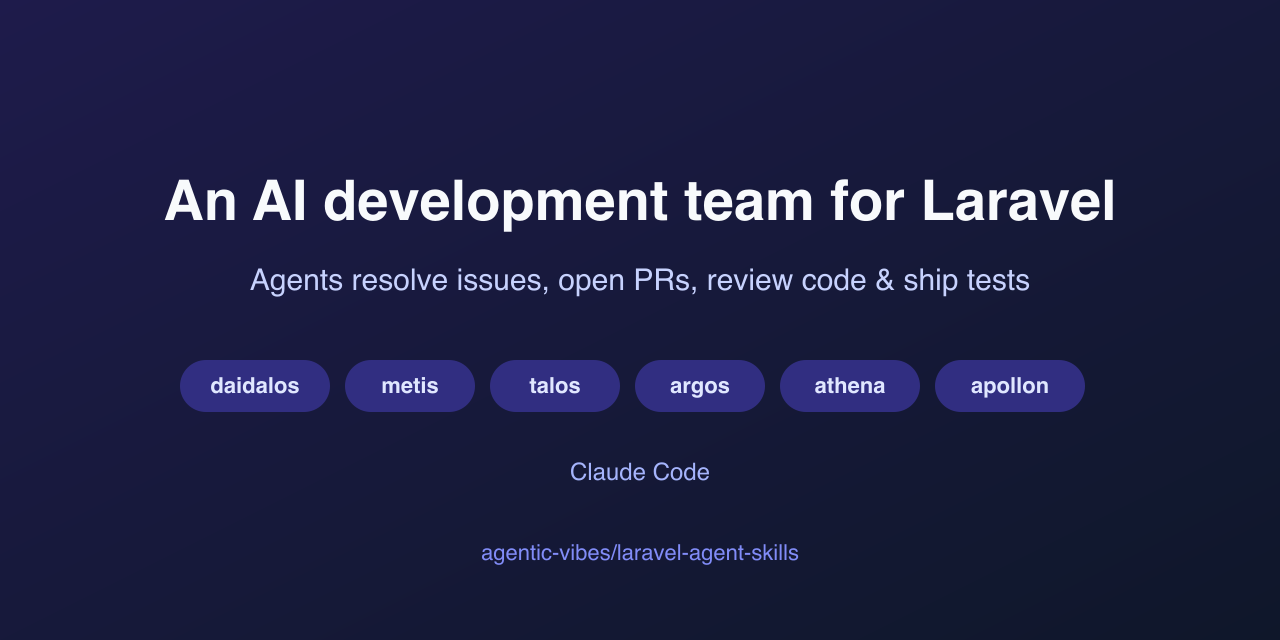
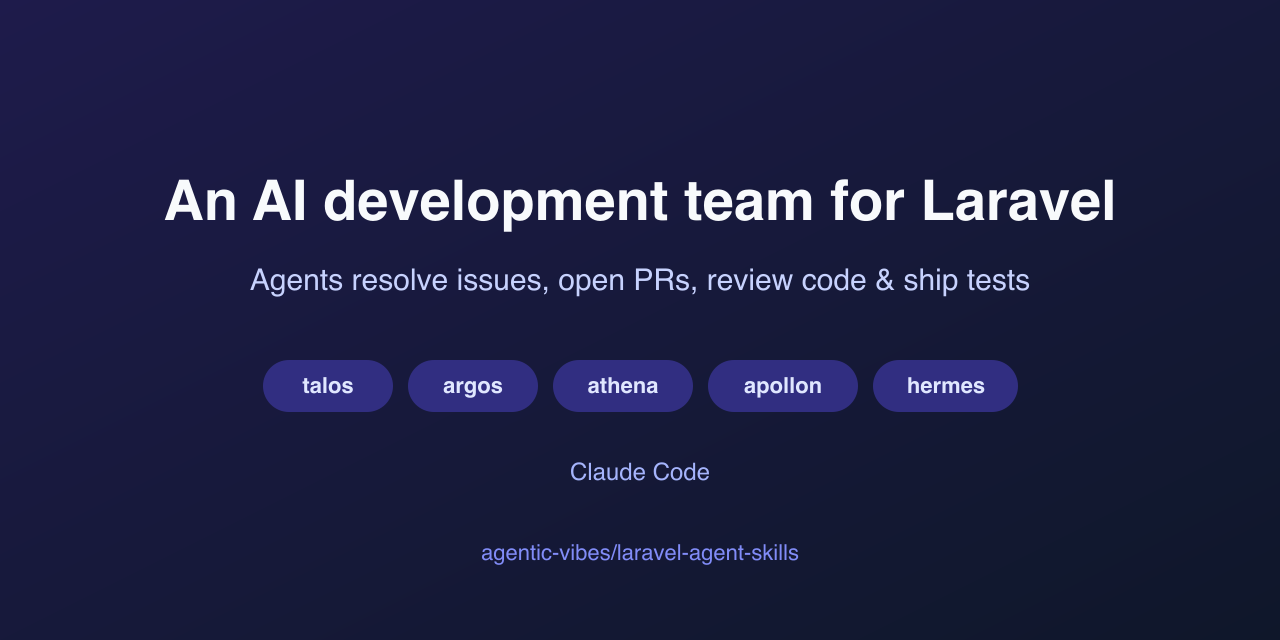
docs: rewrite README and agent docs for the five-agent roster
- README: five-agent roster (talos, argos, athena, apollon, hermes); drop the
  metis / daidalos role cards and how-to sections; add a 'How to run the full
  pipeline' section pointing at scripts/resolve-and-review.sh.
- docs/agents.md: rewrite around harness-driven orchestration; drop the
  daidalos/metis roster entries, the shared-brief and write-lock sections, and
  rework 'Subagents of an agent' + the end-to-end run to the harness pipeline.
- Re-render assets/social-preview.svg/.png to show the current five agents.

Changed region(s): [[0.125, 0.5625, 0.875, 0.6562]]

diff --git a/docs/agents.md b/docs/agents.md
@@ -8,13 +8,15 @@ Skills = reusable workflows
 Agents = specialised orchestration roles over multiple skills
 ```
 
+Each agent is a **standalone specialist**: you (or the orchestrating harness) dispatch the one that matches the step at hand. There is no dedicated orchestrator agent — the harness itself sequences the specialists and the skills, so the end-to-end run is driven by the harness (and the `scripts/resolve-and-review.sh` pipeline template), not by an agent that dispatches other agents. See *End-to-end run* below.
+
 ## Agent roster
 
 Every agent has its own avatar under [`assets/agents/`](../assets/agents). When no custom artwork has been supplied yet, the slot falls back to the universal placeholder ([`placeholder.svg`](../assets/agents/placeholder.svg)) — swap `assets/agents/<name>.svg` to give an agent its own face.
 
 ### <img src="../assets/agents/argos.png" alt="argos avatar" width="48" align="left"> `argos` — code-review gatekeeper
 
-The all-seeing code-review gatekeeper, named after **Argos Panoptes**, the hundred-eyed watcher nothing escaped. Give it a PR — from the current context or a tracker link (GitHub, JIRA, Bugsnag) — and it loads the source, runs the matching `code-review-*` wrapper skill, posts the findings to the PR, and hands back a `CR done` summary with links and Critical / Moderate / Minor counts. Argos focuses on **code quality, architecture, and optimisation**; security is owned by `athena`. When `daidalos` dispatches both in parallel, argos consolidates `athena`'s security findings into the final CR summary before publishing.
+The all-seeing code-review gatekeeper, named after **Argos Panoptes**, the hundred-eyed watcher nothing escaped. Give it a PR — from the current context or a tracker link (GitHub, JIRA, Bugsnag) — and it loads the source, runs the matching `code-review-*` wrapper skill, posts the findings to the PR, and hands back a `CR done` summary with links and Critical / Moderate / Minor counts. Argos focuses on **code quality, architecture, and optimisation**; security is owned by `athena`, which runs as a separate security pass.
 
 - **Trigger:** a pull request needs reviewing (code quality, architecture, optimisation).
 - **Orchestrates:** `code-review-github`, `code-review-jira`, `code-review-bugsnag`.
@@ -22,56 +24,34 @@ The all-seeing code-review gatekeeper, named after **Argos Panoptes**, the hundr
 
 ### <img src="../assets/agents/athena.png" alt="athena avatar" width="48" align="left"> `athena` — security analyst & CR sentinel
 
-The strategic security sentinel, named after **Athena**, goddess of wisdom and strategic defence, and daughter of Metis. It owns the security domain in **two modes**. (1) **Security analysis (pre-implementation)** — dispatched on demand when the task carries a cyber-security question: it scopes the security risk through all security skills, frames the smallest safe remediation via `analyze-problem`, publishes a plan artifact, and hands back a `Security analysis done` summary that `talos` implements. (2) **Security review (post-implementation)** — given a PR from the current context or a tracker link, it orchestrates all security skills, applies all security rules, labels each finding (Critical / Moderate / Minor), posts a consolidated security review to the PR, and hands back a `Security CR done` summary; dispatched by `daidalos` **after `talos`, in parallel with `argos`** — two independent CR passes on the same PR, results consolidated by `argos`. The caller passes its findings to the agents that need them.
+The strategic security sentinel, named after **Athena**, goddess of wisdom and strategic defence. It owns the security domain in **two modes**. (1) **Security analysis (pre-implementation)** — run on demand when the task carries a cyber-security question: it scopes the security risk through all security skills, frames the smallest safe remediation via `analyze-problem`, publishes a plan artifact, and hands back a `Security analysis done` summary that `talos` implements. (2) **Security review (post-implementation)** — given a PR from the current context or a tracker link, it orchestrates all security skills, applies all security rules, labels each finding (Critical / Moderate / Minor), publishes the security review to the tracker-matching CR channel, and hands back a `Security CR done` summary. The caller passes its findings to the agents that need them.
 
 - **Trigger:** a task carries a cyber-security question and needs a pre-implementation security-risk analysis, or a pull request needs a dedicated security review.
 - **Orchestrates:** `security-review`, `laravel-security`, `security-bounty-hunter`, `security-threat-analysis` (plus `analyze-problem` in analysis mode).
 - **Rules applied:** `@rules/security/backend.md`, `@rules/security/frontend.md`, `@rules/security/mobile.md`.
 - **Safety:** read-only — never edits, commits, pushes, or merges (`talos` implements what it analyses).
-- **Registration dependency:** dispatchable only after the installer copies `agents/athena.md` to `.claude/agents/`. Until then, security runs inline in `code-review-github → security-review` (the continuity fallback), and the analysis mode falls back to `metis` with a security-focused brief.
+- **Registration dependency:** dispatchable only after the installer copies `agents/athena.md` to `.claude/agents/`. Until then, security runs inline in `code-review-github → security-review` (the continuity fallback).
 
 ### <img src="../assets/agents/talos.png" alt="talos avatar" width="48" align="left"> `talos` — code-writing implementer
 
-The tireless bronze automaton, named after **Talos**, the forged guardian that worked without rest. Give it a source — a tracker link (GitHub, JIRA, Bugsnag) or the current task — and it implements the fix or feature, runs local checks (`composer build`: tests, phpstan, pint, rector, phpcs, skill-check) and fixes their errors, opens a pull request, and hands back an `Impl done` summary with links. Code review (quality, architecture, optimisation) belongs to `argos`; security CR belongs to `athena`; scoped validation gating belongs to `apollon` — `talos` does not own any of these. Read-only CR runs by `argos` and `athena` may run in parallel; write-capable runs are serialised via the working-tree write-lock (rule #627). It is the write-side counterpart to `argos`: `argos` is the tireless eye (review), `talos` the tireless hands (implementation).
+The tireless bronze automaton, named after **Talos**, the forged guardian that worked without rest. Give it a source — a tracker link (GitHub, JIRA, Bugsnag) or the current task — and it implements the fix or feature, runs local checks (`composer build`: tests, phpstan, pint, rector, phpcs, skill-check) and fixes their errors, opens a pull request, and hands back an `Impl done` summary with links. Code review (quality, architecture, optimisation) belongs to `argos`; security CR belongs to `athena`; test authoring and validation belong to `apollon` — `talos` does not own any of these. It is the write-side counterpart to `argos`: `argos` is the tireless eye (review), `talos` the tireless hands (implementation).
 
 - **Trigger:** an issue or task needs implementing.
 - **Orchestrates:** `resolve-issue`.
 - **Safety:** stops at the PR — never reviews its own work and never merges. If a caller explicitly instructs a merge, the only permitted path is `@skills/merge-github-pr/SKILL.md` — never `gh pr merge` or bare CLI.
 
-### <img src="../assets/agents/metis.png" alt="metis avatar" width="48" align="left"> `metis` — problem-analysis advisor
+### <img src="../assets/agents/apollon.png" alt="apollon avatar" width="48" align="left"> `apollon` — test engineer
 
-The counsel of wise planning, named after **Metis**, the Titaness of deliberation and cunning planning (and mother of Athena). Give it a problem — a tracker link, a described failure, or an under-specified assignment — and it runs the analyze-problem framework, proposes the smallest safe solution, and publishes a reusable plan as a GitHub issue, then hands back an `Analysis done` summary. It is the thinking front-end to the roster: `metis` the mind (analysis), `talos` the hands (implementation), `argos` the eyes (review). In **decomposition mode** (dispatched by `daidalos` for a broad subject), it splits the assignment into multiple independently deliverable issues with `## Dependencies` / ordering, and hands back a `Decomposition done` summary with issue URLs and planned resolve order instead of a single plan artifact.
+The test engineer who reveals the truth about a change, named after **Apollo**, the god of truth, prophecy, and order, and the unerring archer who never misses the mark. Give it a change — an issue, a PR, or the current task — and it authors the test coverage and validates the behaviour: it designs the test scenarios (edge cases, regression) from the assignment, writes the PHPUnit / Pest tests, generates the browser test scenarios, and verifies every acceptance criterion — understanding **both the code and the product assignment**. It hands back a `Tests done` summary with the authored tests and the acceptance-criteria coverage.
 
-- **Trigger:** a problem needs analysis, or a vague assignment needs a proposed solution before any code is written; also dispatched by `daidalos` in decomposition mode to split a broad subject into multiple structured issues.
-- **Orchestrates:** `analyze-problem`, `create-issues-from-text` (decomposition mode), `create-issue` (decomposition mode, single-issue fallback).
-- **Safety:** read-only — never edits, commits, pushes, or implements; publishes its plan or issues to the tracker.
-
-### <img src="../assets/agents/daidalos.png" alt="daidalos avatar" width="48" align="left"> `daidalos` — engineering-workflow orchestrator
-
-The master craftsman who runs the workshop, named after **Daidalos**, the legendary engineer who designed the work and directed the makers. It is the **entry point** for a free-form engineering request — *"resolve a random issue"*, *"resolve this URL"*, *"implement this"* — and the conductor that drives the job to a clean, reviewed result. It resolves a concrete source, decides whether the task needs a plan first, then **delegates each step by dispatching the matching specialist agent** through the Task tool — `metis` (analysis, if needed; or decomposition of a broad subject into multiple structured issues via `create-issues-from-text`, after which it reports the created issues and stops — no PR), `talos` (implementation), `apollon` (fast scoped validation — after talos PR-open for high-risk changes only, always after argos convergence — and post-convergence reporting), `argos` (code quality / architecture / optimisation CR) and `athena` (security — a pre-implementation security-risk analysis on demand when the task carries a cyber-security question, and a security CR dispatched **in parallel with `argos`** after `talos`) — and reports the result to the user. When resolving multiple linked issues, it plans a dependency-aware resolve order (reading `## Dependencies` from each issue) that takes precedence over strict oldest-first. `metis` the mind, `talos` the hands, `argos` the eyes, `athena` the security sentinel, `apollon` the scoped-validation gate and post-convergence reporter; `daidalos` the workshop lead that directs them.
-
-- **Trigger:** a free-form engineering request — from a vague idea to a tracker link — that should be carried end to end.
-- **Orchestrates (dispatches via the Task tool):** `metis` (analysis step — owns `analyze-problem`), `talos` (implementation step — owns `resolve-issue`, which runs a pre-PR self-check with `code-review` + `security-review` over its own diff — a single-pass self-validation, not the authoritative review that `argos` owns; the PR opens only with every surfaced Critical/Moderate finding resolved, and full-diff convergence belongs to the `argos` loop), `apollon` (fast scoped validation gate — dispatched after talos PR-open only for high-risk changes and always after argos convergence; runs only the tests covering the diff and verifies the relevant acceptance criteria; full `composer build` only for broad changes; **and post-convergence reporting** — dispatched once more after argos convergence is confirmed, to publish a human-readable non-technical summary to the source tracker via `pr-summary`), `argos` (code quality / architecture / optimisation CR — part of the `talos` ↔ `argos` convergence loop, owns `process-code-review` / `code-review-github`, `maxIterations = 3`), `athena` (security — on demand a pre-implementation **security analysis** (security skills + `analyze-problem` → remediation plan that `talos` implements) when the task carries a cyber-security question, and after `talos` a **security CR** dispatched **in parallel with `argos`** on the same PR; `daidalos` is the dispatcher for both, never `argos` → `athena`; `athena` is active only after the installer registers it — fallback: security runs inline in `code-review-github → security-review`); resolves the source itself using an oldest-open-issue selection (label `Resolve_by_AI`, excluding already-claimed issues) and `resolve-issue` source detection.
-- **Convergence gate:** the run is done only at **0 Critical + 0 Moderate** (security Critical findings from `athena` count); on `maxIterations` or a blocker it stops and escalates rather than reporting success. Merging stays a separate, explicit step — when instructed, always via `@skills/merge-github-pr/SKILL.md`, never ad-hoc CLI.
-- **Safety:** read-only orchestrator — never analyses, implements, or reviews itself; it delegates each step by dispatching the matching specialist agent, the iteration loop is skill-driven (state lives in the skill the specialist owns), and it must be the top-level agent (not a nested subagent) per the one-level nesting rule below — that single level is what it spends to dispatch `metis` / `talos` / `apollon` / `argos` / `athena`.
-
-### <img src="../assets/agents/apollon.png" alt="apollon avatar" width="48" align="left"> `apollon` — test engineer and post-convergence reporter
-
-The test engineer who reveals the truth about a change, named after **Apollo**, the god of truth, prophecy, and order, and the unerring archer who never misses the mark. Give it a change — an issue, a PR, or the current task — and it authors the test coverage and validates the behaviour: it designs the test scenarios (edge cases, regression) from the assignment, writes the PHPUnit / Pest tests, generates the browser test scenarios, and verifies every acceptance criterion — understanding **both the code and the product assignment**. It hands back a `Tests done` summary with the authored tests and the acceptance-criteria coverage. It also serves as `daidalos`'s **post-convergence reporter**: after the review-and-fix loop converges, `daidalos` dispatches `apollon` to publish a human-readable non-technical summary (what changed + how to test) to the source tracker via `pr-summary`.
-
-- **Trigger:** a change needs test coverage authored and its behaviour validated — design tests, write PHPUnit/Pest tests, generate browser scenarios, verify acceptance criteria. Also triggered by `daidalos` after convergence as the post-convergence reporting step.
-- **Orchestrates:** `create-test` / `create-missing-tests-in-pr` (PHPUnit/Pest authoring), `e2e-testing` (browser scenarios when Playwright is present), `pr-summary` (post-convergence reporting to the source tracker).
+- **Trigger:** a change needs test coverage authored and its behaviour validated — design tests, write PHPUnit/Pest tests, generate browser scenarios, verify acceptance criteria.
+- **Orchestrates:** `create-test` / `create-missing-tests-in-pr` (PHPUnit/Pest authoring), `e2e-testing` (browser scenarios when Playwright is present).
 - **Safety:** write-capable for **test code only** — never touches application code, never merges, never pushes to a protected default branch.
-- **Three modes:**
-  - **On-demand** — dispatched explicitly when full test authoring and validation is wanted (`create-test`, `e2e-testing`).
-  - **Fast scoped validation gate (push-level)** — `daidalos` dispatches `apollon` after landing steps: after `talos` opens the PR only when `daidalos` classified the change as high-risk (shared / core / config surface, more than 10 files, or security impact), and always once after `argos` convergence. In this mode `apollon` derives the changed surface from the diff, runs only the affected tests, and verifies the relevant acceptance criteria against the diff. Full `composer build` is used only when the change is broad (shared/core/config files or more than 10 files changed). This gate runs at push-level granularity — inside the `argos` loop itself would violate the one-level nesting rule, so `daidalos` is the dispatcher, not `argos`. Handoff: `Tests done (scoped)` or `Blocked` (forwarded back to `talos`).
-  - **Post-convergence reporting** — `daidalos` dispatches `apollon` once more after the scoped validation confirms convergence, as the final reporting step (outside the convergence loop — after `argos` loop ends, not inside it). `apollon` composes a human-readable, non-technical summary (what changed + how to test) in the language from the brief `## Language` and publishes it to the source tracker (GitHub issue or JIRA ticket) via `@skills/pr-summary/SKILL.md`. The mode is `light` (scenarios and `How to test` only, no test authoring or build) or `full` (full pipeline including `create-test`, `e2e-testing`, `composer build`) — set by `daidalos` and recorded in the brief `## Reporting mode`. When there is no linked tracker (described-task run), `apollon` returns the summary inline in the handoff; `daidalos` passes it to the user in the chat. **This dispatch is effective only after `apollon` is registered as a dispatchable subagent** (installer must copy `agents/apollon.md` to `.claude/agents/`). Until then `daidalos` falls back and notes *„apollon není registrován — shrnutí v chatu chybí"* in its final report. Handoff: `Reporting done` (with tracker comment link) or `Reporting done (no tracker)` (with inline summary).
-
-> A future top-level, cross-domain orchestrator (reserved name `zeus`) will sit above `daidalos` and coordinate non-engineering domains too (e.g. marketing). `daidalos` owns the engineering tier only.
+- **Model:** `sonnet` at the lowest effort — its work (authoring and running scoped tests) does not need maximum reasoning depth, so it runs fast and cheap.
 
 ### <img src="../assets/agents/hermes.png" alt="hermes avatar" width="48" align="left"> `hermes` — release announcer / publicista
 
-The messenger who carries the message after the work is done, named after **Hermés (posel bohů / messenger of the gods)**, the swift divine messenger whose sole role was to deliver the official announcement. Give it a merged change, a release, or a shipped feature — from the current context or a tracker link — and it loads the source read-only, composes the announcement content (Twitter/X tweet ≤280 chars + thread, release notes, marketing summary with **pekral.cz** promotion), and hands back an `Announce done` summary with all drafts inline. It runs **post-delivery**, outside the CR loop — after `talos` has merged or after a release tag is cut.
+The messenger who carries the message after the work is done, named after **Hermés (posel bohů / messenger of the gods)**, the swift divine messenger whose sole role was to deliver the official announcement. Give it a merged change, a release, or a shipped feature — from the current context or a tracker link — and it loads the source read-only, composes the announcement content (Twitter/X tweet ≤280 chars + thread, release notes, marketing summary with **pekral.cz** promotion), and hands back an `Announce done` summary with all drafts inline. It runs **post-delivery**, outside the CR loop — after the change has merged or after a release tag is cut.
 
 - **Trigger:** a merged change or release needs announcement content — tweet, thread, release notes, or marketing summary.
 - **Orchestrates:** `resolve-issue/references/source-detection` (source loading, read-only).
@@ -86,13 +66,11 @@ Every agent is named after a figure from **Greek mythology**, chosen so the figu
 |---|---|---|
 | `argos` | Argos Panoptes, the hundred-eyed all-seeing watcher | nothing escapes his gaze → thorough PR inspection (quality, architecture, optimisation) |
 | `talos` | Talos, the bronze automaton forged to work and guard without rest | tireless artificial labourer → forges working code |
-| `metis` | Metis, Titaness of wise counsel and cunning planning | deliberation before action → problem analysis & planning |
-| `daidalos` | Daidalos, the master craftsman who runs the workshop and directs the makers | head of production → routes engineering work to the right specialist |
 | `apollon` | Apollo, god of truth, prophecy, and order, and the unerring archer | reveals the truth about a change and hits the acceptance mark → test authoring & validation |
-| `athena` | Athena, goddess of wisdom and strategic defence, daughter of Metis | wisdom + strategic vigilance → security analyst (pre-implementation, on demand) and dedicated security CR sentinel (parallel to argos) |
+| `athena` | Athena, goddess of wisdom and strategic defence | wisdom + strategic vigilance → security analyst (pre-implementation, on demand) and dedicated security CR sentinel |
 | `hermes` | Hermés (posel bohů / messenger of the gods) | swift divine messenger, carries the message after the work is done → release announcer & publicista |
 
-Naming ideas for future agents: `themis` (order / verdict), `rhadamanthys` (fair judge), `iris` (delivery / merge), `zeus` (top-level cross-domain orchestrator above `daidalos`).
+Naming ideas for future agents: `themis` (order / verdict), `rhadamanthys` (fair judge), `iris` (delivery / merge).
 
 ## Anatomy of an agent
 
@@ -113,12 +91,12 @@ System prompt: what the agent does, which skills it orchestrates, and the handof
 - **`name`** — lowercase, the id used as `subagent_type` / `@name`.
 - **`description`** — drives auto-delegation; phrase it as the situation that should trigger the agent.
 - **`tools`** — restrict to what the agent needs. A read-only reviewer needs `Read, Glob, Grep, Bash` only.
-- **`effort`** — reasoning effort while the agent is active (`low` / `medium` / `high` / `xhigh` / `max`); set to `max` on every agent so each runs at maximum reasoning depth. The runtime clamps to the highest level the agent's `model` supports.
+- **`effort`** — reasoning effort while the agent is active (`low` / `medium` / `high` / `xhigh` / `max`); set to `max` on every agent so each runs at maximum reasoning depth. The one exception is `apollon`, which runs at `low` — its scoped test authoring and validation does not need deep reasoning, so it stays fast and cheap. The runtime clamps to the highest level the agent's `model` supports.
 - **System prompt** — orchestration only. Delegate to skills via `@skills/<name>/SKILL.md`; **never duplicate a skill's rules** — defer to the skill as the source of truth.
 
 ## Handoff contract
 
-An agent's final message is returned to the caller as the tool result, so it must be a self-contained handoff the next agent can act on without re-deriving context:
+An agent's final message is returned to the caller as the tool result, so it must be a self-contained handoff the next step can act on without re-deriving context:
 
 - **Status** — e.g. `CR done`.
 - **Links** — the PR and the originating source (GitHub / JIRA / Bugsnag).
@@ -126,73 +104,30 @@ An agent's final message is returned to the caller as the tool result, so it mus
 
 **Language of the handoff / report.** Every agent writes the human-facing prose of its handoff and any end-user report in the **same natural language the assignment was given in** (if the request came in Czech, the handoff is in Czech). Identifiers stay verbatim regardless of that language — branch names, ticket / issue keys, links, severity labels, CLI commands, and skill / agent names are never translated, and two natural languages are never mixed inside a single handoff.
 
-**How the language survives delegation.** When `daidalos` orchestrates, the assignment's natural language is not re-guessed at each hop — `daidalos` records it once in the shared brief's `## Language` field, writes every `Task` dispatch prompt in that language, and each specialist takes the brief's `## Language` field as the authoritative source for its reply. So a Czech request produces Czech output through the whole `metis → talos → apollon → argos` chain, not just in `daidalos`'s own final report.
-
-## Shared task brief (inter-agent memory)
-
-The handoff above is the *return* channel. For the *forward* channel — passing context **into** each agent efficiently — `daidalos` writes a **shared task brief** that every dispatched specialist reads, so the run's data is gathered once instead of re-derived by each agent.
-
-- **Owner & gather phase.** Right after it resolves the source and **before the first dispatch**, `daidalos` runs a gather phase: it collects everything the task needs solved — the tracker payload and acceptance criteria (via the deterministic loaders), the relevant files / symbols / reproduction, known constraints, and its own **work-breakdown plan** (which specialist does what, with each one's success gate).
-- **Location & lifecycle.** The brief lives at `.claude/run/<source-slug>.md`. `.claude/` is git-ignored, so it is **ephemeral and never committed**; `daidalos` removes it (`rm -f`) after the final report or a `Blocked` stop.
-- **Read-then-append.** `daidalos` passes the brief's absolute path in every `Task` dispatch prompt. Each specialist **reads it first** as authoritative shared context, then **appends its own handoff section** (`### <agent> — <status>`) when it finishes, so the next specialist in the chain inherits the full history — source, plan, and every prior handoff — without `daidalos` re-passing it.
-- **No new write scope.** Every agent already carries `Bash`, so the brief is created and appended through `Bash` redirection (`cat >> "$BRIEF" <<'EOF' … EOF`) to the git-ignored scratch path. No agent gains `Write` / `Edit` over the codebase from this — the read-only reviewers (`argos`, `metis`) and the read-only orchestrator (`daidalos`) keep their read-only-codebase stance; the brief is the only file they touch, and it is not source.
-- **Top-level runs only.** The brief's value — a single gather shared across **separate** dispatched subagents — materialises only when `daidalos` runs **top-level** and dispatches `talos` / `argos` as real Task subagents (separate processes, shared filesystem). A `daidalos` invoked **as a subagent itself** has already spent the one nesting level, so it cannot dispatch separate specialists and instead returns a routing handoff (*Subagents of an agent*, case (b)) — there is no second process to read or append the brief, so the read-then-append loop does not apply to that nested case.
-
-## Concurrency — working-tree write-lock
-
-Several top-level `daidalos` runs can target the **same project at once** (interactively). **The writing path never uses git worktrees**, so every writing run shares **one git working tree** and two runs that both write to it would corrupt each other's checkout and uncommitted edits. `daidalos` guards this with a **scope-conditioned write-lock**, and processes the sources of a single request **sequentially, never fanning out**. The read-only code-review agents (`argos`, `athena`) **may** opt into a throwaway read-only worktree for their parallel review — they carry no write-lock, so they never contend here, and `daidalos` removes any CR worktree during its post-run cleanup:
-
-- **Read-only runs overlap.** An analysis-only run (dispatching `metis`) — including a decomposition run that produces issues instead of a PR — never modifies the working tree, so it takes **no** lock — any number of independent analysis or decomposition runs overlap freely, with each other and with a writing run. When a single request resolves multiple sources, they are still processed **one at a time** (no parallel fan-out); when multiple linked issues exist, `daidalos` plans a dependency-aware resolve order (reading `## Dependencies` from each issue) that takes precedence over oldest-first when issues are interlinked.
-- **Writing runs serialise.** A full-delivery run (dispatching `talos`) acquires a lock before the dispatch and runs one at a time. A second writing run that finds a live holder stops with `Blocked` and a remediation (**wait for the holder to finish and retry** — the writing path takes no worktree, so there is no isolated-worktree escape to run writing work in parallel) instead of dispatching `talos` into another run's changes.
-- **Keyed to the toplevel.** The lock is a directory at `.claude/run/.daidalos-write.lock` inside the current toplevel's git-ignored `.claude/run/`. Because the writing path never uses worktrees, every full-delivery run resolves to the same toplevel and the same lock, so concurrent writing runs always serialise on the shared tree. Acquire is atomic (`mkdir`), a stale lock from a crashed run is reclaimed via a `kill -0` PID probe, and the lock is released on the final report and on any `Blocked` stop. See `agents/daidalos.md` *Concurrency & the working-tree write-lock* for the mechanism.
-
 ## Subagents of an agent
 
 Claude Code subagents invoked via the Task tool generally **cannot spawn their own subagents** (one level of nesting). This shapes how the roster composes:
 
-1. **A top-level orchestrator dispatches specialists through the Task tool.** `daidalos` runs as the top-level agent the user talks to, and spends its single nesting level dispatching `metis` / `talos` / `apollon` / `argos` directly. Each specialist then orchestrates its own skills inline — `talos` runs `resolve-issue`, `argos` runs `code-review-github`, and so on.
+1. **The top-level harness dispatches specialists through the Task tool.** The harness (the session you talk to) spends its single nesting level dispatching `talos` / `argos` / `athena` / `apollon` / `hermes` directly. Each specialist then orchestrates its own skills inline — `talos` runs `resolve-issue`, `argos` runs `code-review-github`, and so on.
 2. **Lens skills called inline** by an orchestrating skill — e.g. `code-review-github` already runs `code-review`, `security-review`, `api-review`, `assignment-compliance-check` inline. This is what each dispatched specialist does in its own context, and it is also the fallback when no further nesting level is available.
 3. **Parallel fan-out via the Workflow tool** — a DAG of agents for heavy runs that genuinely need concurrency.
 
-Because of the one-level limit, an orchestrator like `daidalos` must be the **top-level agent the user talks to** — it delegates each step by dispatching the matching specialist agent (or, if `daidalos` was itself invoked headless and the nesting level is already spent, returns a routing handoff for the caller to execute), never by becoming a nested subagent that tries to spawn `metis` / `talos` / `apollon` / `argos` from inside another agent. A future `zeus → daidalos → specialist` chain cannot stack three Task-subagent levels; it must collapse to a single dispatch level plus the inline / Workflow model.
+Because of the one-level limit, no agent tries to become a nested orchestrator that spawns other agents from inside another agent. The harness is the single dispatch level; a specialist that needs another specialist's output returns a handoff for the harness to act on, rather than dispatching it itself.
 
-### End-to-end run (agent-dispatched, skill-owned loop)
+### End-to-end run (harness-driven, skill-owned steps)
 
-The `daidalos` run carries a request all the way to a clean, reviewed result. `daidalos` resolves the source itself, then **dispatches each step as the matching specialist agent through the Task tool**; the iterative `talos` ↔ `argos` review-and-fix loop is **owned by the skill the dispatched specialist drives** (its state lives there), not modelled as agents calling agents:
+A full request is carried to a clean, reviewed result by the **harness**, which sequences the standalone specialists and the skills they own. The canonical order is captured as a runnable checklist in [`scripts/resolve-and-review.sh`](../scripts/resolve-and-review.sh) — a template / wrapper that validates the input, detects the tracker, and prints the exact skills to run in order (it does not invoke Claude itself):
 
 ```text
-user → daidalos                                         (top-level; resolves source, then dispatches via Task tool)
-         │  resolve source (oldest-open-issue selection / resolve-issue source-detection)
-         │  decompose? ── yes ─→ Task ▶ metis   (= create-issues-from-text → N issues, dependency-aware order) → report issues, no PR
-         │     │ no
-         │  analyse? ── yes ─→ Task ▶ metis   (= analyze-problem → plan)
-         │     │            └─ security-focused? ─→ Task ▶ athena (security analysis mode = security skills + analyze-problem → remediation plan; Security analysis done) → feeds talos
-         │     │ no
-         ▼     ▼
-       Task ▶ talos   (= resolve-issue)
-         │        └─ pre-PR self-check: code-review + security-review (single pass, not the authoritative review) → 0 Critical/Moderate → opens PR
-         ▼
-       Task ▶ apollon   (fast scoped validation — high-risk changes only; diff-targeted tests + acceptance-criteria check; full build only for broad changes)
-         │        └─ Tests done (scoped) → proceed | Blocked → escalate to talos
-         ▼
-       Task ▶ argos   (= process-code-review / code-review-github — code quality / architecture / optimisation — the talos ↔ argos loop)
-       Task ▶ athena  (= security-review + laravel-security + security-bounty-hunter + security-threat-analysis — parallel security CR; dispatched by daidalos, not by argos)
-         │        └─ argos: convergence loop (code-review-github + fixes, maxIterations 3); reads athena's Security CR done from brief → consolidates → 0 Critical/Moderate
-         │           athena: Security CR done → findings recorded in brief for argos to consolidate
-         │           (athena dispatch guarded by registration check — fallback: security inline in code-review-github → security-review)
-         ▼
-       Task ▶ apollon   (fast scoped validation — final gate after convergence)
-         │        └─ Tests done (scoped) → proceed | Blocked → escalate to user
-         ▼
-       Task ▶ apollon   (post-convergence reporting — publishes human-readable "co se změnilo + jak otestovat" to source tracker via pr-summary; light or full mode per brief ## Reporting mode; fallback: inline summary in handoff when no tracker)
-         │        └─ Reporting done (tracker comment link) | Reporting done (no tracker) (inline) | apollon not registered → skip + note in report
-         ▼
-       daidalos → reports result to the user   (merge stays a separate, explicit step — always via @skills/merge-github-pr/SKILL.md)
+1. /resolve-issue <issue-ref|text>     → talos (= resolve-issue): implement + open the PR (always)
+2. /code-review-<tracker> <PR>          → argos (+ athena security pass): fresh CR round on the PR
+                                          (code-review-github | code-review-jira | code-review-bugsnag,
+                                           picked from the tracker of the source)
+3. /process-code-review <PR>            → resolve the findings when the CR round reported any
+4. /merge-github-pr <PR>                → merge into the base branch, only when a merge was requested
 ```
 
-The apollon dispatch runs at **push-level granularity** — after `talos` opens the PR (high-risk changes only) and once after `argos` converges (every run). Running it inside the `argos` loop would require `argos` to dispatch `apollon` as a subagent, which violates the one-level nesting rule (the nesting level is already spent on dispatching `argos` from `daidalos`). `daidalos` is therefore the correct dispatcher for both `apollon` passes.
-
-The convergence gate is **0 Critical + 0 Moderate**; on `maxIterations` or a blocker the run stops and escalates instead of reporting success.
+The convergence gate is **0 Critical + 0 Moderate**: step 3 iterates the review-and-fix loop (owned by `process-code-review`, `maxIterations = 3`) until it converges, and the merge in step 4 is gated on it. Test authoring / validation (`apollon`) and release announcements (`hermes`) are dispatched on demand around this spine when a change needs them.
 
 ## Troubleshooting — subagent file writes blocked
 
@@ -200,7 +135,7 @@ The convergence gate is **0 Critical + 0 Moderate**; on `maxIterations` or a blo
 
 **Cause:** the agent declares `Write` / `Edit` in its frontmatter, but those tools are *capabilities*, not grants. A dispatched subagent runs **non-interactively** — when its `Edit` / `Write` is not already pre-allowed for the path it targets, it cannot fall back to an interactive approval the way the main thread can, so the write is denied at runtime. This is an environment setting, not something the agent definition or this package can grant.
 
-**Correct behaviour (already enforced):** the blocked agent returns `Blocked: sandbox denied file write` and the orchestrator escalates it — the work is **never** silently completed outside the delegated, reviewed pipeline (`@rules/compound-engineering/general.mdc` *Blocked delegation is a hard stop*).
+**Correct behaviour (already enforced):** the blocked agent returns `Blocked: sandbox denied file write` and the harness escalates it to the user — the work is **never** silently completed outside the delegated, reviewed pipeline (`@rules/compound-engineering/general.mdc` *Blocked delegation is a hard stop*).
 
 **Remediation (the human enables subagent writes) — pre-allow scoped `Edit` / `Write` on the working tree.** Add two scoped allow entries to **`permissions.allow`** in the project's `.claude/settings.local.json`, naming the project's absolute path:
 
@@ -228,5 +163,5 @@ The installer always copies `agents/` to `.claude/agents/` — Claude Code is th
 1. Pick a Greek figure whose myth matches the job; use the lowercase name.
 2. Create `agents/<name>.md` with the frontmatter + an orchestration-only system prompt that delegates to skills and returns a handoff.
 3. Add it to the README *Claude Code Subagents* roster (an avatar + role card).
-4. Add a test asserting the file ships with its required frontmatter (mirror the `argos` test in `tests/InstallerTest.php`).
+4. Add a test asserting the file ships with its required frontmatter (mirror the `argos` test in `tests/Installer/AgentsTest.php`).
 5. Run `composer build` — the installer file-count tests pick up the new agent automatically.
